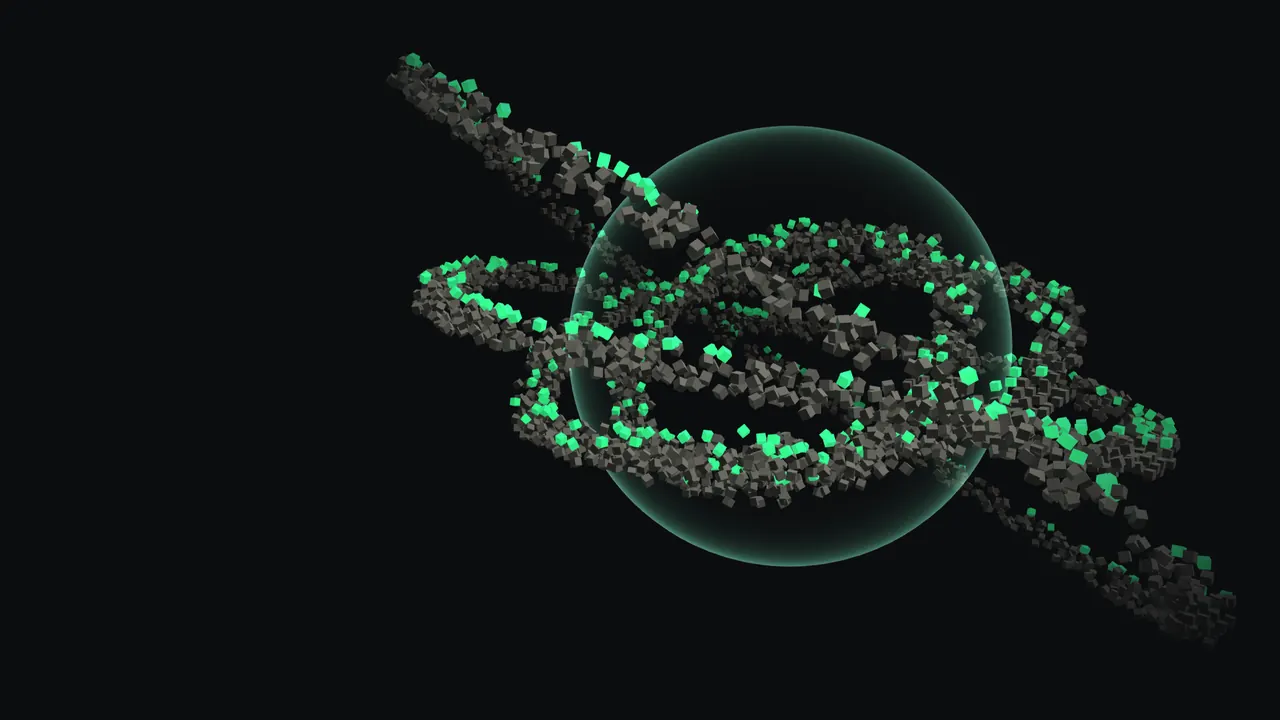
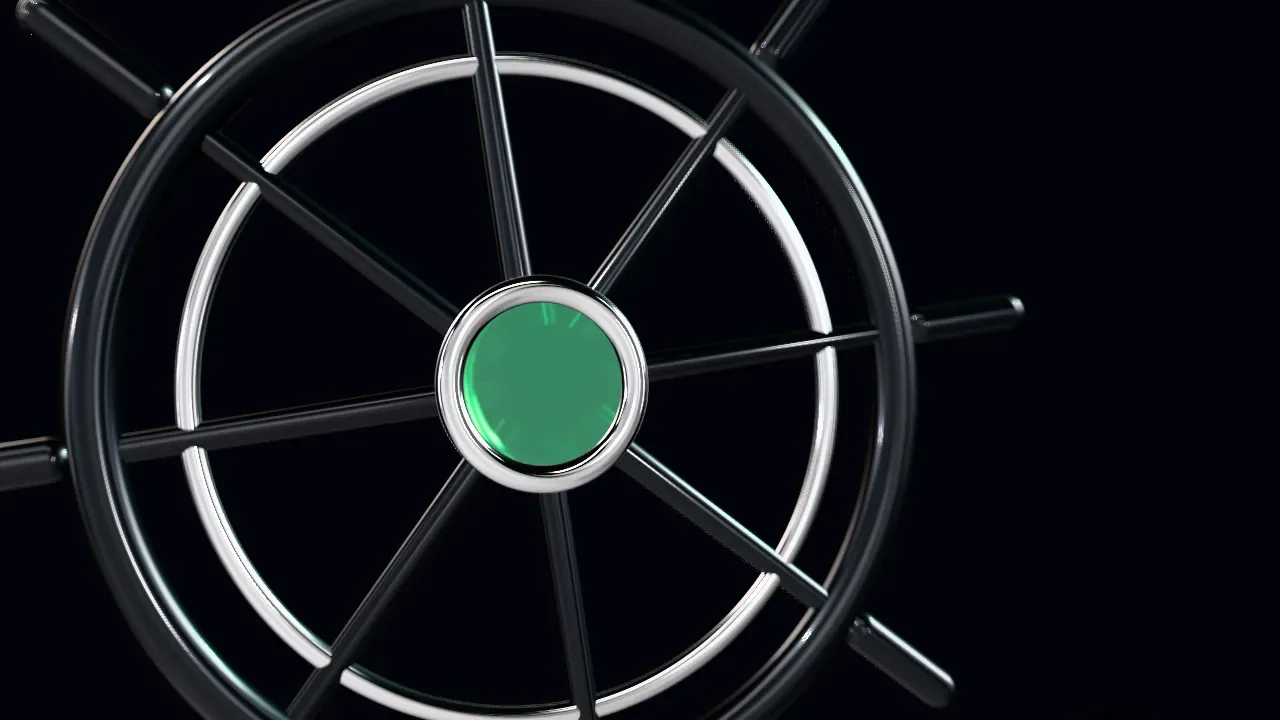
Repurpose to Helm agent OS (mission loop, five layers, approvals, kill switch; no invented metrics/testimonials) + high-quality PBR renders for use cases, CREDITS

Changed region(s): [[0.0, 0.0, 0.9688, 1.0], [0.2812, 0.7028, 0.3438, 0.8556], [0.5312, 0.0306, 0.5625, 0.0611]]

diff --git a/components/Library.tsx b/components/Library.tsx
@@ -3,10 +3,10 @@ import Image from "next/image";
 import { useEffect, useRef } from "react";
 
 const cases = [
-  { img: "pipeline", tone: "light", tag: "Build", h: "Figma to live page", p: "A frame and your tokens in, a typed, responsive page out, previewed locally." },
-  { img: "billing", tone: "dark", tag: "Fix", h: "The fix-it run", p: "Describe the bug in a sentence. Helm finds the cause, patches it and proves it at every width." },
-  { img: "forecast", tone: "light", tag: "Audit", h: "The site audit", p: "Overlaps, contrast, broken hovers and slow frames, ranked and fixed one diff at a time." },
-  { img: "renewals", tone: "dark", tag: "Missions", h: "Overnight missions", p: "Queue a mission with a scope and a budget before bed. Wake up to receipts and a held push." },
+  { img: "build", tone: "light", tag: "Build", h: "Figma to live page", p: "A frame and your tokens in, a typed, responsive page out, previewed locally." },
+  { img: "fix", tone: "dark", tag: "Fix", h: "The fix-it run", p: "Describe the bug in a sentence. Helm finds the cause, patches it and proves it at every width." },
+  { img: "audit", tone: "light", tag: "Audit", h: "The site audit", p: "Overlaps, contrast, broken hovers and slow frames, ranked and fixed one diff at a time." },
+  { img: "missions", tone: "dark", tag: "Missions", h: "Overnight missions", p: "Queue a mission with a scope and a budget before bed. Wake up to receipts and a held push." },
 ];
 
 export default function Library() {

diff --git a/components/Proof.tsx b/components/Proof.tsx
@@ -5,7 +5,7 @@ import { gsap } from "gsap";
 const stats = [
   { v: 5, s: "", l: "layers: plan, build, critique, test, ship" },
   { v: 4, s: "", l: "breakpoints checked on every QA pass" },
-  { v: 1, s: "key", l: "to stop every running agent at once" },
+  { v: 1, s: " key", l: "to stop every running agent at once" },
   { v: 0, s: "", l: "outward actions without your approval", text: "Zero" },
 ];
 const stack = ["Next.js", "React", "Tailwind", "Vite", "Astro", "Figma", "GitHub", "Vercel", "Playwright", "VS Code", "Terminal", "Git"];
@@ -30,7 +30,7 @@ export default function Proof() {
           {stats.map((s, i) => (
             <div key={s.l} className={`border-b border-white/10 py-8 sm:px-6 lg:border-b-0 ${i > 0 ? "lg:border-l" : "lg:pl-0"} ${i % 2 ? "sm:border-l" : "sm:pl-0"}`} data-fade data-delay={i * 0.08}>
               <p className="display text-[clamp(72px,8vw,136px)]" style={{ fontStretch: "70%" }}>
-                {s.pre}{s.text ? s.text : <span data-count={s.v}>0</span>}<span className="text-mint">{s.s}</span>
+                {s.text ? s.text : <span data-count={s.v}>0</span>}<span className="text-mint">{s.s}</span>
               </p>
               <p className="mt-3 max-w-[26ch] text-[15px] leading-relaxed text-paper/55">{s.l}</p>
             </div>

diff --git a/CREDITS.md b/CREDITS.md
@@ -1,20 +1,18 @@
-# Credits & licenses — Ordo (concept by Anorix)
+# Credits & licenses — Helm (by Anorix)
+Concept site for Helm, a layered agent OS for web designers and vibe-coders. Layout inspired by the interaction quality of
+dayos.com (Awwwards SOTD, May 29 2025). No code, copy, logos, fonts or images were taken from the reference.
+All figures on the page describe product design (layers, approvals, kill switch); example missions and logs are illustrative. No metrics, users or testimonials are claimed.
 
-Ordo is an original concept site. Inspired by the interaction quality of dayos.com (Awwwards SOTD, May 29 2025).
-No code, copy, logos, fonts or images were taken from the reference.
+## Imagery
+Use-case and principle images are offline three.js renders (frosted-glass layer stack, chrome ring, ceramic grid, helm wheel) with
+physical transmission/metal materials, soft shadows and accumulated depth of field. The mission-loop core is real-time three.js.
 
-## Fonts (SIL Open Font License 1.1, self-hosted via Fontsource)
-- Archivo (variable, wdth + wght) — Omnibus-Type — https://fonts.google.com/specimen/Archivo
-- Inter (variable) — Rasmus Andersson — https://rsms.me/inter
-- JetBrains Mono (variable) — JetBrains — https://www.jetbrains.com/lp/mono/
+| Asset | Source | Licence |
+|---|---|---|
+| studio_small_09 HDRI (lighting / reflections) | Poly Haven — polyhaven.com/a/studio_small_09 | CC0 |
 
-## Images
-- /public/img/*.webp — rendered in-house with three.js (scripts not shipped). Self-generated, no third-party assets.
-- The 3D "Core" scene is generated in real time from code (instanced shader); no models or textures.
-- Logo mark + favicon — original SVG drawn for Ordo.
+## Fonts
+Self-hosted, SIL Open Font License 1.1 (see app/layout.tsx).
 
-## Libraries (MIT unless noted)
-Next.js, React, Tailwind CSS, three.js, @react-three/fiber, Lenis, GSAP 3 (incl. ScrollTrigger + SplitText; free under the GSAP "Standard No Charge" license).
-
-## Content
-All company names, people, metrics and quotes are fictional. Integration names (Salesforce, Stripe, etc.) appear as plain text only, to describe compatibility; no logos are used and no partnership is implied.
+## Libraries
+Next.js, React, Tailwind CSS, three.js, @react-three/fiber, Lenis, GSAP.
